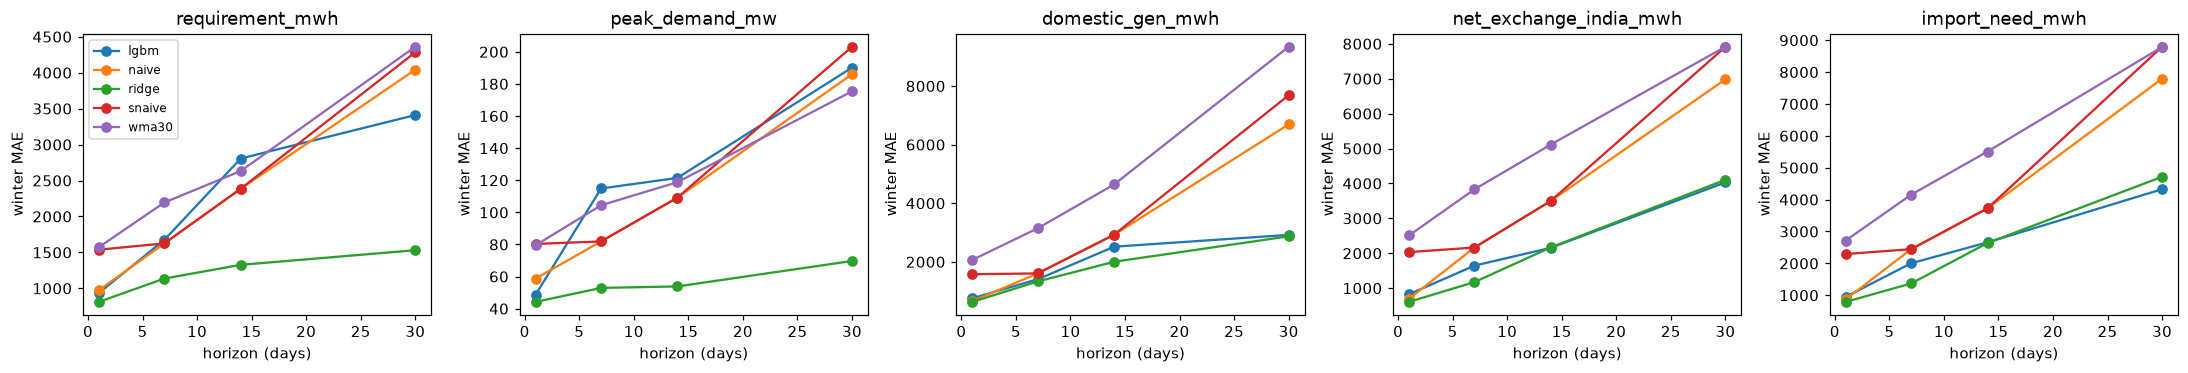
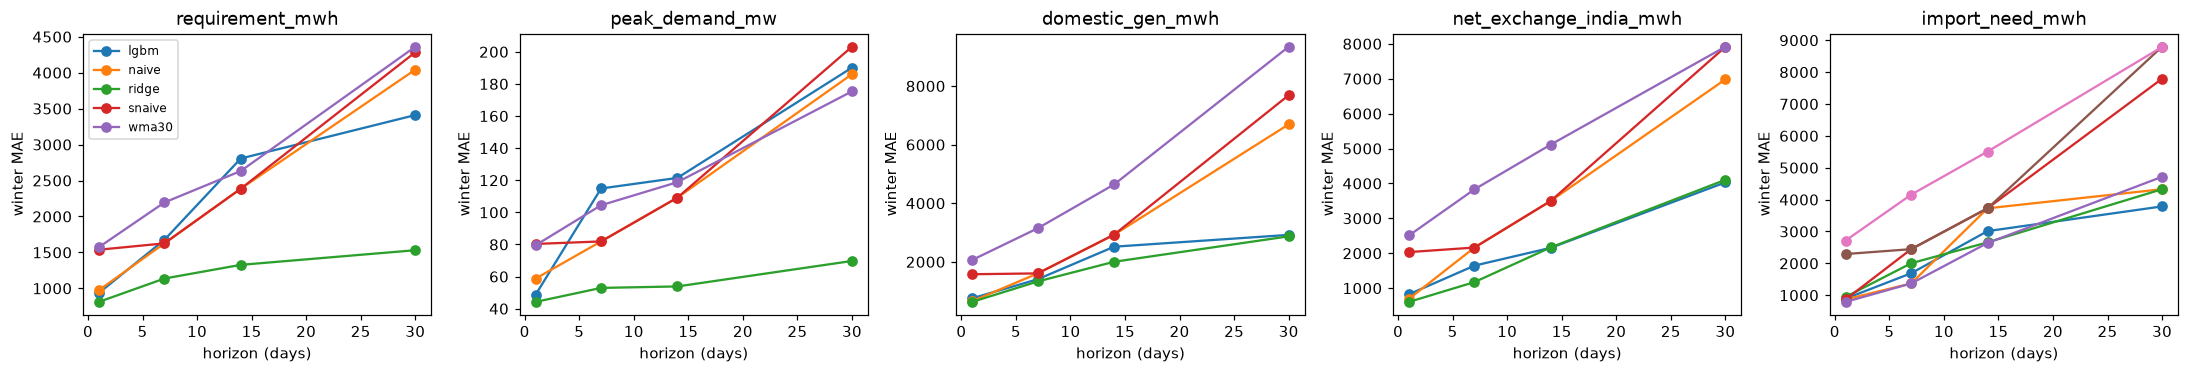
feat(model): import need direct vs difference

Changed region(s): [[0.8391, 0.4718, 0.9945, 0.8257], [0.9013, 0.2654, 0.9634, 0.4424], [0.9634, 0.118, 0.9945, 0.2654]]

diff --git a/src/nea_forecast/model.py b/src/nea_forecast/model.py
@@ -155,6 +155,8 @@ def dm_test(e1: list[float], e2: list[float], h: int) -> float:
     var = (dc @ dc + 2 * sum((1 - k / h) * (dc[k:] @ dc[:-k]) for k in range(1, h))) / n / n
     if var <= 0:
         var = (dc @ dc) / n / n
+    if var == 0:  # constant non-zero loss difference: one model is always better
+        return 0.0
     return math.erfc(abs(d.mean() / math.sqrt(var)) / math.sqrt(2))
 
 
@@ -272,6 +274,29 @@ def lgbm(train: list, test: list) -> list[float]:
 MODELS = {"ridge": ridge, "lgbm": lgbm}
 
 
+def import_need_compare(errors: dict, chosen: dict, horizons: list[int] = HORIZONS) -> tuple[list[dict], dict]:
+    """Import need (requirement - domestic generation) two ways: 'direct' = selected model on the need itself,
+    'diff' = selected demand forecast - selected generation forecast. diff wins ties (it says why import moves)."""
+    rows, pick = [], {}
+    for h in horizons:
+        sel = lambda t: errors[(chosen[f"{t}|{h}"], t, h)]  # noqa: E731
+        r, g = ({e[0]: e for e in sel(t)} for t in ("requirement_mwh", "domestic_gen_mwh"))
+        diff = [(o, r[o][1], r[o][2] - g[o][2], r[o][3] - g[o][3]) for o in sorted(r.keys() & g.keys())]
+        errs = {("direct", "import_need_mwh", h): sel("import_need_mwh"), ("diff", "import_need_mwh", h): diff}
+        rs = metrics(errs, "clim")
+        w = {x["model"]: x for x in rs if x["season"] == "winter"}
+        ea, eb = ({e[0]: e[2] - e[3] for e in errs[(k, "import_need_mwh", h)] if e[1].month in WINTER}
+                  for k in ("direct", "diff"))
+        common = sorted(ea.keys() & eb.keys())
+        p = dm_test([ea[o] for o in common], [eb[o] for o in common], h)
+        for x in rs:
+            x["dm_p"], x["dm_vs"] = (p, "diff") if x["model"] == "direct" else (None, None)
+        better = w["direct"]["mae"] < (1 - MARGIN) * w["diff"]["mae"] and p < ALPHA
+        pick[h] = "direct" if better else "diff"
+        rows += rs
+    return rows, pick
+
+
 def sensitivity(c: dict) -> str:
     """Ridge winter MAPE for demand under HDD/CDD thresholds +-3 degC: the fixed choice must not be tuned."""
     lines = ["  hdd_base cdd_base | " + " | ".join(f"req h={h}" for h in HORIZONS)]
@@ -341,6 +366,14 @@ def run_backtest(con) -> dict:
         attach_dm(rows, errors)
         if weather == "clim":  # selection uses ex-ante results only
             chosen = select(rows, errors)
+            need_rows, need_pick = import_need_compare(errors, chosen)
+            rows += need_rows
+            chosen.update({f"import_need_method|{h}": m for h, m in need_pick.items()})
+            print("✔ import need, winter MAE direct vs diff (demand - generation):\n" + "\n".join(
+                f"  h={r['horizon']:<2} direct {r['mae']:,.0f} vs diff "
+                f"{next(x['mae'] for x in need_rows if (x['model'], x['horizon'], x['season']) == ('diff', r['horizon'], 'winter')):,.0f}"
+                f"  DM p={r['dm_p']:.3f} -> {need_pick[r['horizon']]}"
+                for r in need_rows if r["model"] == "direct" and r["season"] == "winter"), flush=True)
         all_rows += rows
         print(f"✔ backtest ({weather}) in {time.time() - t:.0f}s; winter MAE (MAPE):\n{_table(rows)}", flush=True)
         print("  Diebold-Mariano (winter), ladder model vs next simpler:\n" + "\n".join(

diff --git a/tests/test_model.py b/tests/test_model.py
@@ -88,3 +88,17 @@ def test_select_prefers_simpler_model_of_equal_skill():
     p = lambda a, b: 0.01 if a == "lgbm" else 0.4  # noqa: E731
     assert model.select_one({"naive": 100.0, "ridge": 62.0, "lgbm": 61.6}, p) == "ridge"
     assert model.select_one({"naive": 100.0, "ridge": 70.0, "lgbm": 60.0}, p) == "lgbm"
+
+
+def test_import_need_compare_diff_and_no_mape():
+    o = [date(2024, 12, 1) + timedelta(i) for i in range(40)]
+    req = [(d, d + timedelta(1), 100.0, 101.0) for d in o]  # (origin, date, y, yhat)
+    gen = [(d, d + timedelta(1), 60.0, 60.0) for d in o]
+    need = [(d, d + timedelta(1), 40.0, 45.0) for d in o]
+    errors = {("ridge", "requirement_mwh", 1): req, ("naive", "domestic_gen_mwh", 1): gen,
+              ("naive", "import_need_mwh", 1): need}
+    chosen = {"requirement_mwh|1": "ridge", "domestic_gen_mwh|1": "naive", "import_need_mwh|1": "naive"}
+    rows, pick = model.import_need_compare(errors, chosen, [1])
+    mae = {(r["model"], r["season"]): r["mae"] for r in rows}
+    assert mae[("diff", "winter")] == 1.0 and mae[("direct", "winter")] == 5.0
+    assert pick == {1: "diff"} and all(r["mape"] is None for r in rows)

diff --git a/docs/developer/decisions.md b/docs/developer/decisions.md
@@ -88,3 +88,4 @@ Architecture decisions (ADR) + change log. Every repo change appends a change-lo
 - **2026-10-26** — Phase 3 Task 1: `model.py` (load: NDOR + widget by date, climatology 2010–2022; features at origin only; baselines naive/snaive/wma30; rolling-origin backtest, refit every 7 origins; ex-ante + ex-post), `ml` schema, `nea model`. Baseline winter results in docs/models/baselines.md.
 - **2026-10-26** — Phase 3 Task 2: ridge (target = change from today; λ on last 60 training rows), Diebold–Mariano (Newey–West), threshold sensitivity, 2023-vs-2024 coefficient stability. Demand/peak beat baselines significantly at all horizons; ex-post weather doesn't help demand but actual discharge cuts generation h=30 error 8.8→5.4% → GloFAS forecast worth adding. h=30 demand sensitive to HDD/CDD base (4.9–7.6%).
 - **2026-10-26** — Phase 3 Task 3: LightGBM (native `lgb.train`, no scikit-learn; 1 thread: 3m45→1m14) + selection (climb on >5% & DM p<0.10, then simplest within 5% of winner). LightGBM significantly worse on demand/peak; selected only for import need h=30 (weak, flagged). CLI now sends stderr to the run log (an uncaught crash had left the log silent). Selection in docs/model/selection.json.
+- **2026-10-26** — Phase 3 Task 4: import need direct vs diff (selected demand − selected generation). diff used at all horizons (ties at h=1/7 not significant; 13–19% better at h=14/30). dm_test returns 0 for a constant non-zero loss difference (was divide-by-zero).

diff --git a/docs/models/import-need.md b/docs/models/import-need.md
@@ -38,4 +38,15 @@ Customs import 2017 → is scaled ×1.09 to the NEA report level (EDA reconcilia
 
 ## Results
 
-_Filled by `nea model` (Phase 3, Task 4): direct vs difference MAE per horizon, winter only._
+Run `bt-20261026-083218`. Winter MAE (MWh/day); the direct model is the one selected for `import_need_mwh` at that horizon, and the difference method uses the selected demand and generation models.
+
+| h | direct | diff (demand − generation) | DM p | used |
+|---|---|---|---|---|
+| 1 | 869 | 894 | 0.78 | diff (tie) |
+| 7 | 1,369 | 1,689 | 0.28 | diff (tie) |
+| 14 | 3,726 | **3,011** | 0.096 | diff (significant) |
+| 30 | 4,326 | **3,786** | 0.31 | diff |
+
+- At 1–7 days the direct model is lower, but not significantly, so the tie rule picks the difference method, which also explains the cause.
+- At 14–30 days the difference method is 13–19% better: the demand and generation models each carry their own physics (calendar/temperature vs river flow), which a single import model mixes.
+- **Context:** in the test winter, import need swung from a **surplus** of 6.9 GWh/day (Nov 2024 average) to a **need** of 8.4 GWh/day (Jan 2025). A 30-day error of 3.8 GWh/day is about a quarter of that swing: useful for direction and size, not for exact daily purchases. Most of it comes from generation (river flow). The ex-post run shows that actual discharge would cut generation error by about 40% (see [ridge](ridge.md)). A river-flow forecast is the biggest available gain.
